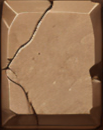
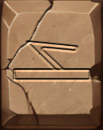
Implemented button to acquire tiles; added ability to toggle build ui with B button

Changed region(s): [[0.1165, 0.3077, 0.9029, 0.6462]]

diff --git a/GameManager.cs b/GameManager.cs
@@ -61,7 +61,7 @@ public class GameManager
             UI.Position.TOP_RIGHT);
 
         // Create the bottom left panel with a 2x3 grid of clickable buttons
-        Action[] buttonActions = { BuildButton, Button2, Button3, Button4, Button5, Button6 };
+        Action[] buttonActions = { BuildButton, TileButton, Button3, Button4, Button5, Button6 };
         _bottomLeftPanel = new(Sprites.BottomLeftPanel);
         _bottomLeftPanel.SetMargin(left: 49, top: 133);
         _bottomLeftPanel.SetPadding(right: -20);
@@ -70,13 +70,14 @@ public class GameManager
             Sprites.BottomLeftButtons[0], 
             onClick: BuildButton, 
             onHover: UI.SetTooltipText);
-        buildElement.TooltipText = "Build";
+        buildElement.TooltipText = "Build (B)";
 
         _bottomLeftPanel.SetContent(0, 0, buildElement);
-        _bottomLeftPanel.SetContent(0, 1, new UIElement(Sprites.BottomLeftButtons[1], onClick: Button2));
-        _bottomLeftPanel.SetContent(1, 0, new UIElement(Sprites.BottomLeftButtons[2], onClick: Button3));
-        _bottomLeftPanel.SetContent(1, 1, new UIElement(Sprites.BottomLeftButtons[3], onClick: Button4));
-        _bottomLeftPanel.SetContent(2, 0, new UIElement(Sprites.BottomLeftButtons[4], onClick: Button5));
+        _bottomLeftPanel.SetContent(1, 0, new UIElement(Sprites.BottomLeftButtons[1], 
+            onClick: TileButton, onHover: UI.SetTooltipText, tooltip: "Acquire Tile (T)"));
+        _bottomLeftPanel.SetContent(2, 0, new UIElement(Sprites.BottomLeftButtons[2], onClick: Button3));
+        _bottomLeftPanel.SetContent(0, 1, new UIElement(Sprites.BottomLeftButtons[3], onClick: Button4));
+        _bottomLeftPanel.SetContent(1, 1, new UIElement(Sprites.BottomLeftButtons[4], onClick: Button5));
         _bottomLeftPanel.SetContent(2, 1, new UIElement(Sprites.BottomLeftButtons[5], onClick: Button6));
 
         UI.AddElement(_bottomLeftPanel, UI.Position.BOTTOM_LEFT);
@@ -149,6 +150,18 @@ public class GameManager
         }
     }
 
+    public void TileButton()
+    {
+        if (InputManager.Mode == InputManager.TILE_MODE)
+        {
+            InputManager.SwitchToMode(InputManager.CAMERA_MODE);
+        }
+        else
+        {
+            InputManager.SwitchToMode(InputManager.TILE_MODE);
+        }
+    }
+
     public void RunTests()
     {
         //MarketTests.RunTests();
@@ -169,11 +182,6 @@ public class GameManager
     public void TogglePause()
     {
         InputManager.Paused = !InputManager.Paused;
-    }
-
-    public void Button2()
-    {
-        Console.WriteLine("Button 2 pressed");
     }
 
     public void Button3()
@@ -203,6 +211,9 @@ public class GameManager
         InputManager.Update();
         _camera.UpdateCamera(KatabasisGame.Viewport);
         UI.Update();
+        
+        if (InputManager.BPressed)
+            BuildButton();
 
         // Calculate the real mouse position by inverting the camera transformations
         InputManager.MousePos = Vector2.Transform(InputManager.MousePos, Matrix.Invert(_camera.Transform));
@@ -219,6 +230,8 @@ public class GameManager
 
         _player1.Update();
         _map.Update();
+
+        HandleTileAcquisition();
 
         // Give a "daily" update for tasks that don't need to be constantly checked
         TimeOfDay += Globals.Time;
@@ -259,6 +272,22 @@ public class GameManager
 
         _logoDisplay.Position.X = Globals.WindowSize.X - _logoDisplay.Width() - 30;
         _logoDisplay2.Position.X = _logoDisplay.Position.X + 5;
+    }
+
+    public void HandleTileAcquisition()
+    {
+        if (InputManager.Clicked && _map.HighlightedTile != null)
+        {
+            if (_player1.Kingdom.TryToAcquireTile(_map.HighlightedTile))
+            {
+                _map.UnhighlightTile();
+                InputManager.SwitchToMode(InputManager.CAMERA_MODE);
+            }
+            else
+            {
+                _map.MakeHighlightTileRed();
+            }
+        }
     }
 
     public void Draw()

diff --git a/Map.cs b/Map.cs
@@ -8,7 +8,7 @@ public class Map
 
     private Building _editBuilding;
 
-    private Tile _highlightedTile;
+    public Tile HighlightedTile;
 
     public static Point TileSize { get; private set; }
     public Point MapSize { get; private set; }
@@ -238,27 +238,42 @@ public class Map
         return null;
     }
 
+    public void UnhighlightTile()
+    {
+        if (HighlightedTile != null)
+        {
+            HighlightedTile.Unhighlight();
+            HighlightedTile.BaseSprite.SpriteColor = Color.White;
+            HighlightedTile = null;
+        }
+    }
+
+    public void MakeHighlightTileRed()
+    {
+        if (HighlightedTile != null)
+        {
+            HighlightedTile.BaseSprite.SpriteColor = Color.OrangeRed;
+        }
+    }
+
     public void Update()
     {
         if (InputManager.Mode == InputManager.TILE_MODE)
         {
             Tile t = TileAtPos(InputManager.MousePos);
-            if (t != null)
+            if (t != null && t != HighlightedTile)
             {
                 // Clear the highlighted tile
-                if (_highlightedTile != null)
-                {
-                    _highlightedTile.Unhighlight();
-                }
+                if (HighlightedTile != null)
+                    UnhighlightTile();
 
-                _highlightedTile = t;
-                _highlightedTile.Highlight();
+                HighlightedTile = t;
+                HighlightedTile.Highlight();
             }
         }
-        else if (_highlightedTile != null)
+        else if (HighlightedTile != null)
         {
-            _highlightedTile.Unhighlight();
-            _highlightedTile = null;
+            UnhighlightTile();
         }
 
         if (_editBuilding != null)
@@ -293,10 +308,10 @@ public class Map
                 _editBuilding = null;
             }            
         }
-        // When build mode is first enabled, create a building at the mouse cursor
         else if (_editBuilding == null && InputManager.Mode == InputManager.BUILD_MODE)
         {
-            CreateEditBuilding();
+            // When build mode is first enabled, create a building at the mouse cursor
+            //CreateEditBuilding();
         }
 
         // Update tiles

diff --git a/InputManager.cs b/InputManager.cs
@@ -16,6 +16,10 @@ public static class InputManager
 
     public static bool Clicked;
 
+    // Pressing B no longer toggles build mode, it just toggles the build ui
+    // clicking on a building type in the UI is what enables build mode
+    public static bool BPressed;
+
     // Camera movement
     private static Vector2 _dragStart;
     public static Vector2 MouseDrag = Vector2.Zero;
@@ -34,19 +38,6 @@ public static class InputManager
 
     private static void DetermineMode()
     {
-        // Toggle build mode when 'B' is pressed
-        if (keyboardState.IsKeyUp(Keys.B) && lastKeyboardState.IsKeyDown(Keys.B))
-        {
-            if (Mode == BUILD_MODE)
-            {
-                SwitchToMode(CAMERA_MODE);
-            }
-            else
-            {
-                SwitchToMode(BUILD_MODE);
-            }
-        }
-
         if (keyboardState.IsKeyUp(Keys.T) && lastKeyboardState.IsKeyDown(Keys.T))
         {
             if (Mode == TILE_MODE)
@@ -145,12 +136,22 @@ public static class InputManager
         Clicked = (mouseState.LeftButton == ButtonState.Released && 
                   lastMouseState.LeftButton == ButtonState.Pressed);
 
+        BPressed = keyboardState.IsKeyUp(Keys.B) && lastKeyboardState.IsKeyDown(Keys.B);
+
         // Default to camera mode controls unless the mode blocks camera movement
         switch (Mode)
         {
             case BUILD_MODE : ProcessBuildingInputs(); break;
             case CAMERA_MODE: ProcessCameraInputs();   break;
             default: ProcessCameraInputs(); break;
+        }
+        
+        // Cancel tile mode with right click
+        if (Mode == TILE_MODE && 
+            lastMouseState.RightButton == ButtonState.Released && 
+            mouseState.RightButton == ButtonState.Pressed)
+        {
+            SwitchToMode(CAMERA_MODE);
         }
 
         if (keyboardState.IsKeyUp(Keys.P) && lastKeyboardState.IsKeyDown(Keys.P))

diff --git a/Kingdom.cs b/Kingdom.cs
@@ -2,8 +2,11 @@ using System.Collections.Generic;
 
 public class Kingdom
 {
+    public const int START_MAX_TILES = 20;
+
     public Player Owner;
     public Tile StartTile;
+    public int MaxTiles;
     public List<Tile> OwnedTiles;
     public List<Person> People;
     public List<Person> Deceased;
@@ -12,6 +15,7 @@ public class Kingdom
     {
         Owner = owner;
         StartTile = startTile;
+        MaxTiles = START_MAX_TILES;
         OwnedTiles = new();
         AcquireTilesAround(startTile);
         People = new();
@@ -21,6 +25,11 @@ public class Kingdom
     // Checks if tile is adjacent to one owned by the player
     public bool TryToAcquireTile(Tile tile)
     {
+        if (OwnedTiles.Count >= MaxTiles)
+            return false;
+        if (tile == null || tile.Owner != null)
+            return false;
+
         foreach (Tile neighbor in tile.Neighbors)
             if (neighbor != null && neighbor.Owner == Owner)
                 return AcquireTile(tile);
@@ -58,6 +67,9 @@ public class Kingdom
 
     public void Update()
     {
+        // For now, 1 tile allowed per 1000 wealth
+        MaxTiles = (int)(START_MAX_TILES + Owner.Wealth() * 0.001f);
+
         // Remove every person who died
         foreach (Person p in Deceased)
             People.Remove(p);

diff --git a/Player.cs b/Player.cs
@@ -18,4 +18,15 @@ public class Player
     {
         Property.DailyUpdate();
     }
+
+    public float Wealth()
+    {
+        float wealth = 0f;
+        foreach (Goods g in Property.Values())
+        {
+            // TODO: lookup value of good once values exist
+            wealth += g.Quantity; /* Market.GetValue(g.GetId()); */
+        }
+        return wealth;
+    }
 }

diff --git a/KatabasisGame.cs b/KatabasisGame.cs
@@ -14,7 +14,7 @@ public class KatabasisGame : Game
     public static Vector2 ScreenSize { get { return new Vector2(Viewport.Width, Viewport.Height); } }
     
     private Song _defaultBGM;
-    private GameManager _gameManager;
+    public GameManager _gameManager;
 
     private GraphicsDeviceManager _graphics;
     private SpriteBatch _spriteBatch;
